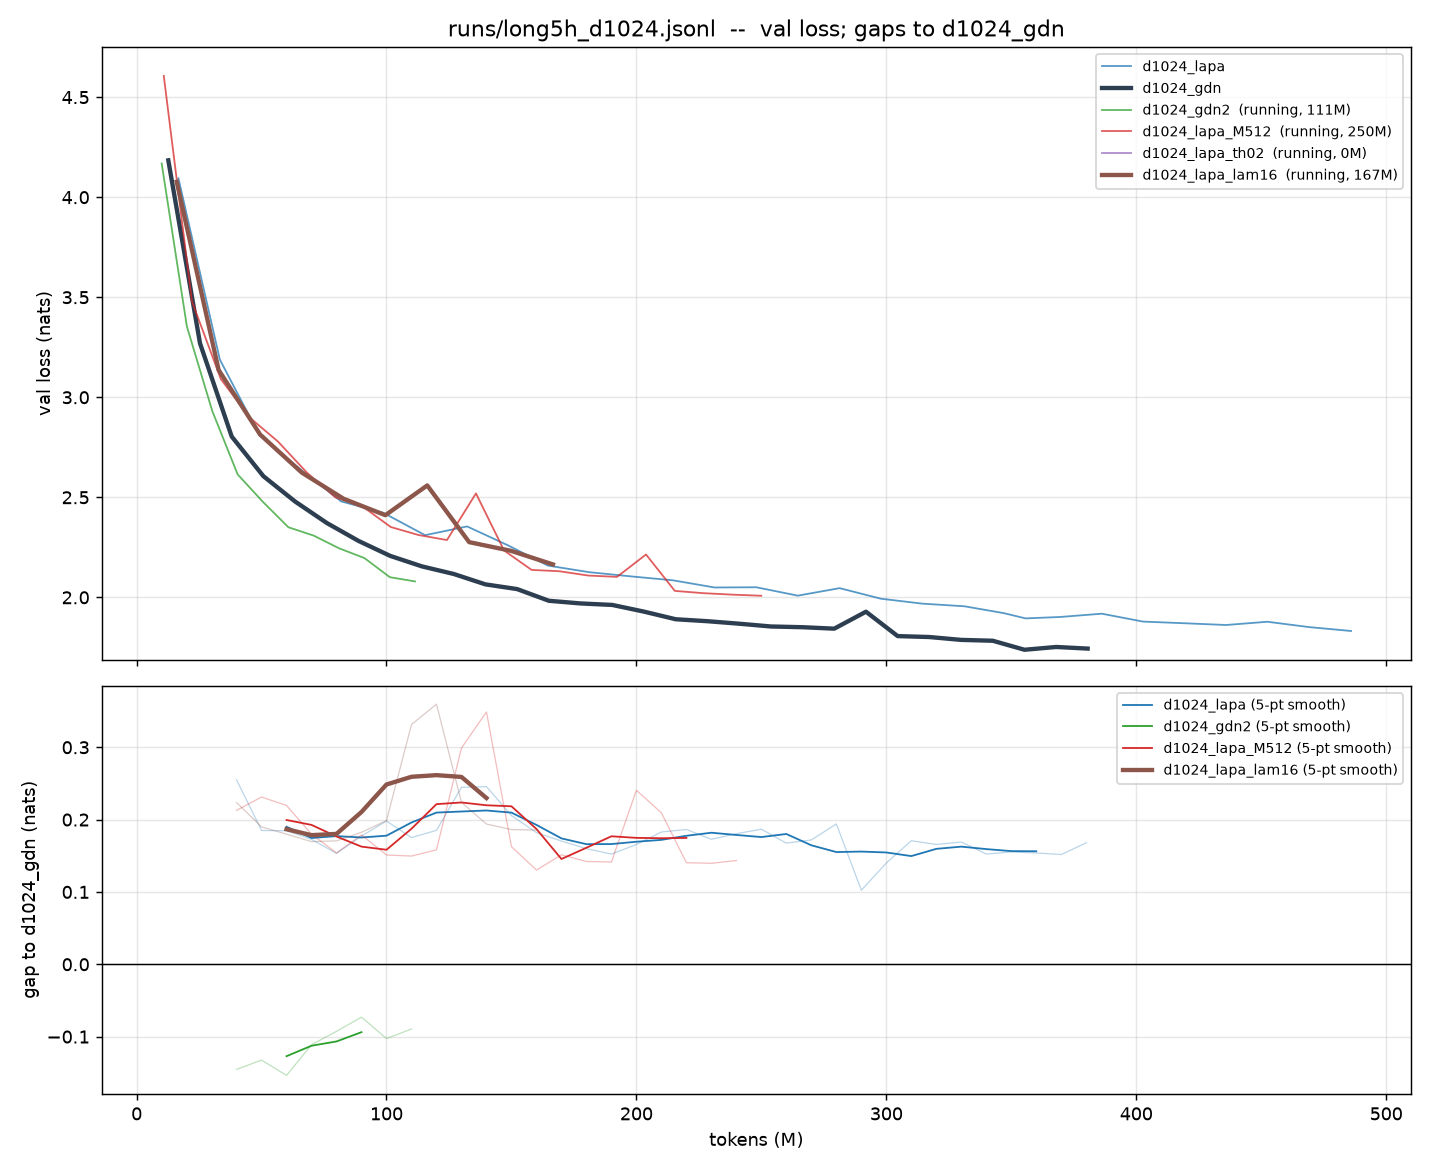
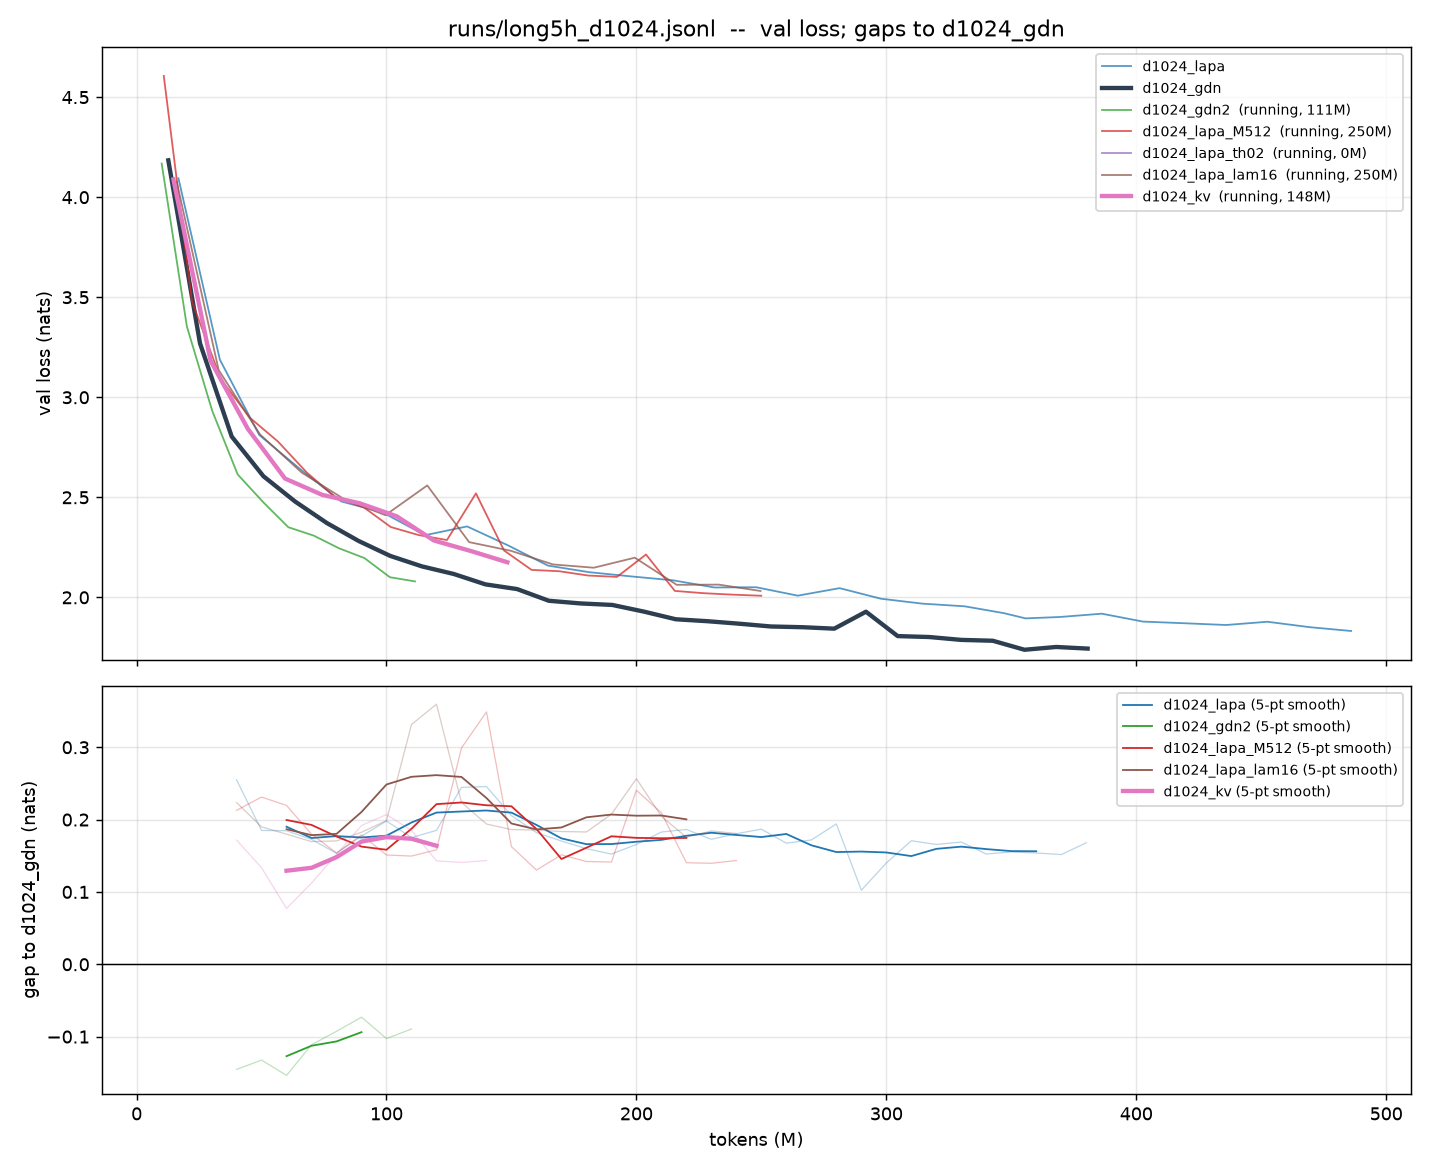
ablate the trained checkpoint: half the long head's spectrum is near-dead
Switching each mechanism off at EVAL time on runs/ck_d1024_lapa, no retraining, 20 val
batches. The cheapest diagnostic of the campaign, and it should have been the first thing
run rather than three 5 h arms guessing at capacity.

  intact                   1.8188
  short head muted         8.2643   +6.45   <- the pillar
  long head muted          4.5838   +2.77
  theta = 0                3.9200   +2.10
  PERSISTENT modes muted   3.8542   +2.04
  beta -> 0 (delta rule)   3.2352   +1.42
  slow modes muted         2.3351   +0.52
  fast modes muted         2.2838   +0.47
  DAMPED modes muted       1.9531   +0.13   <- half the spectrum

Muting 128 of 256 modes costs 0.13 nats against the persistent half's 2.04 -- a factor of
15 between two halves of the same head. That retro-explains the day: --lam-max 0.0625
landing at +0.002 was predictable, because the cap it releases holds modes that do not
carry the loss. It is also the head-overlap the damping note describes, with the winner
now visible: damped modes converge to the cap, i.e. 64 tokens = exactly the short head's
window, and duplicate its job. The short head wins that overlap by 2.3x.

The fast/slow split is redundant too: +0.52 and +0.47 muted individually against +2.77 for
the whole head, so either half alone carries most of the function.

Queued behind the kv arm, both single changes against round 1 and both funding what the
ablation says works rather than repairing what it says is dead:
[…]

diff --git a/SPARK.md b/SPARK.md
@@ -336,7 +336,43 @@ long head's addressing exists for, and exactly where LapA crushed GDN at d=128 (
 0.85 vs 0.00 at L=512). Losing there at 8× the width is the signature of addressing
 that did not scale with the model, which is hypothesis (a).
 
-### THE DECAY CAP IS FROZEN SHUT — half the long head's spectrum is disabled
+### WHAT ACTUALLY CARRIES THE LOSS (ablation on round 1's trained checkpoint)
+
+Each mechanism switched off at EVAL time on `runs/ck_d1024_lapa`, no retraining, 20 val
+batches. This is the cheapest diagnostic in the campaign and it should have been the first.
+
+| mechanism muted | val | cost |
+|---|---|---|
+| intact | 1.8188 | — |
+| **short head** (mix cols) | 8.2643 | **+6.45** |
+| long head (mix cols) | 4.5838 | +2.77 |
+| `theta` = 0 (content path) | 3.9200 | +2.10 |
+| **persistent modes** (w=0) | 3.8542 | +2.04 |
+| `beta` → 0 (delta rule off) | 3.2352 | +1.42 |
+| slow modes (w=0) | 2.3351 | +0.52 |
+| fast modes (w=0) | 2.2838 | +0.47 |
+| **damped modes** (w=0) | 1.9531 | **+0.13** |
+
+**Half the long head's spectrum is near-dead.** Muting 128 of 256 modes costs 0.13 nats
+while the persistent half costs 2.04 — a factor of 15 between the two halves of the same
+head. Everything else follows from that:
+
+- it retro-explains the whole d=1024 day: `--lam-max 0.0625` landing at +0.002 was
+  predictable, because the modes whose cap it releases do not carry the loss;
+- it is the overlap the damping-alignment note describes, with the winner now visible: the
+  damped modes converge to the cap, i.e. a memory of 64 tokens = exactly the short head's
+  window, and duplicate its job. The short head wins that overlap by 2.3x;
+- the fast/slow split is redundant (+0.52 and +0.47 alone, against +2.77 for the whole
+  head): either half alone carries most of the function.
+
+What is load-bearing and was never questioned: the SHORT head, by a distance. Its window
+is set to 64 by convention, not by measurement.
+
+Queued from this: `--persist 0.875` (reallocate the spectrum toward the half that works,
+zero extra parameters or state) and `--Ls 128` (widen the pillar, +0.065M params/layer,
+state 156k → 197k).
+
+### The decay cap is frozen shut — but the modes it holds are the dead ones
 
 Read off round 1's checkpoint, not inferred. `lam` is
 `softplus(lam_raw).clamp(max=lam_max)` with `lam_max = 1/L = 1/64`, a floor of 64 tokens
